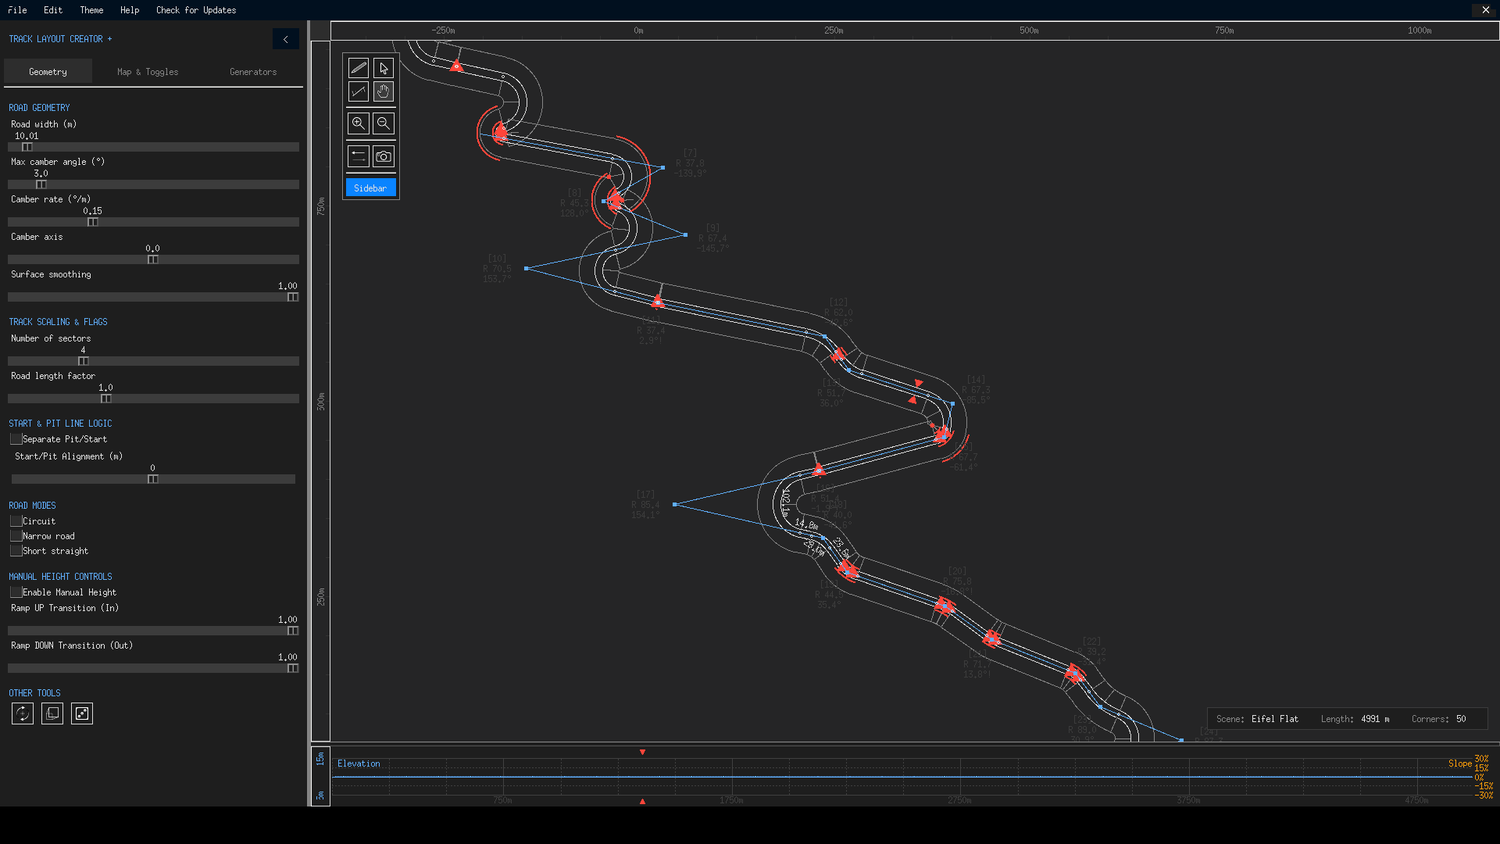
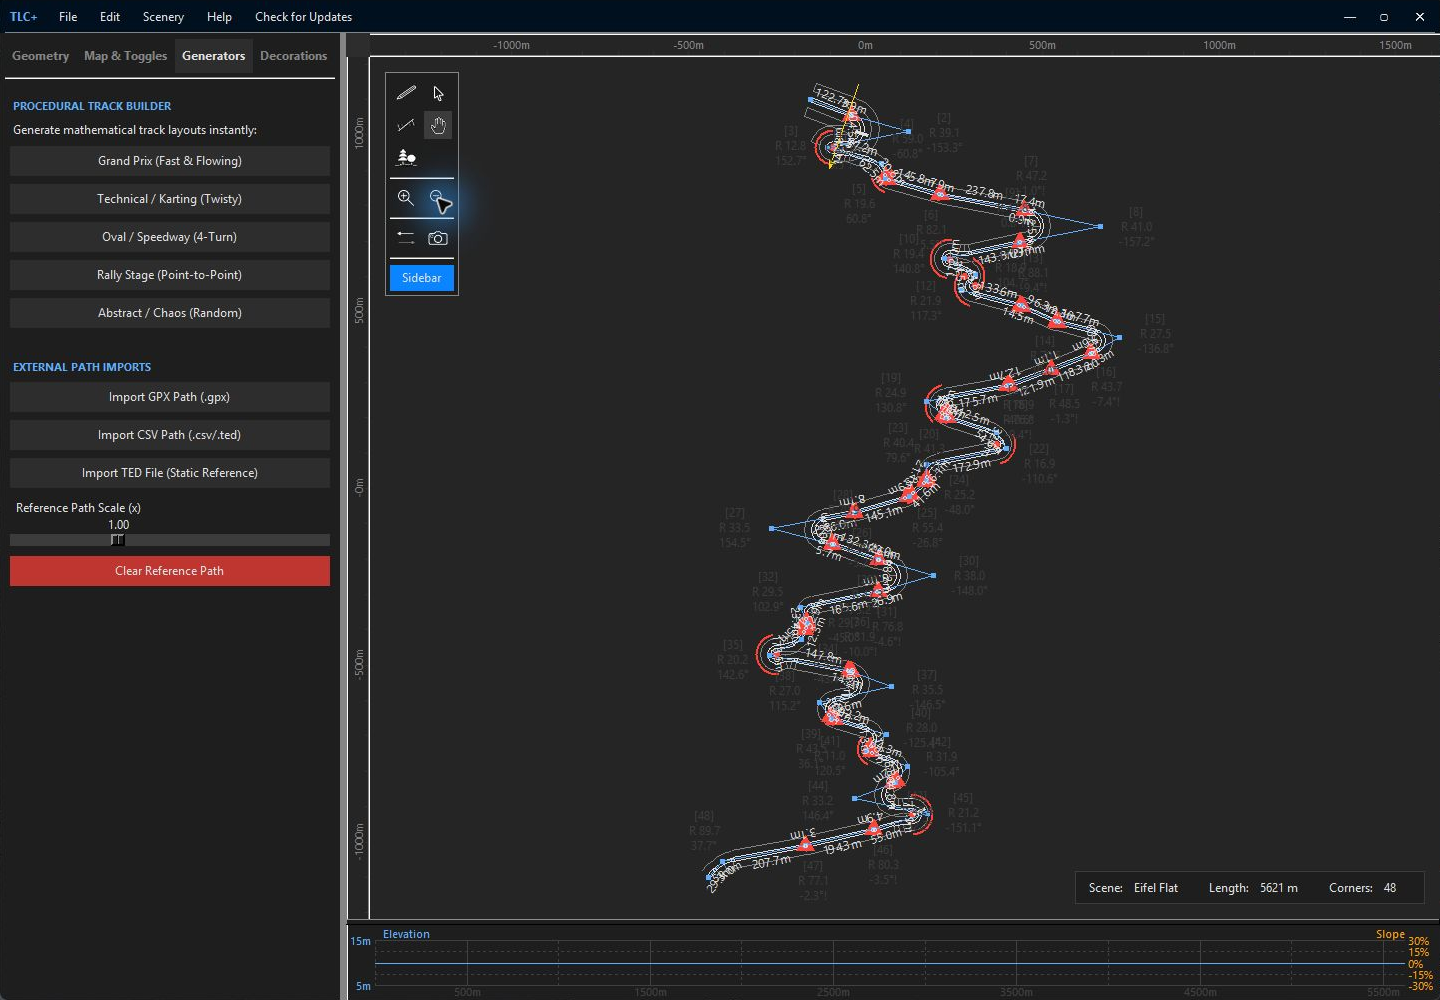
Replace legacy images with 20 desktop v1.3.0 screenshots

Changed region(s): [[0.0, 0.0, 1.0, 1.0], [0.4375, 0.5853, 0.4688, 0.6161]]

diff --git a/docs/generators/procedural.md b/docs/generators/procedural.md
@@ -1,9 +1,8 @@
 # Procedural Builder
 
-!!! note "Screenshot version"
-    Images on this page show v1.2.0. Shared controls still apply; see [the v1.3.0 release overview](../releases.md) for the new tools.
-
 The Procedural Track Builder creates complete layouts from mathematical recipes — one button per archetype, a fresh roll of the dice every click. Generation is instant and entirely local: nodes are placed by geometric rules, radii assigned from each archetype's profile, the view recentres, and an undo snapshot means ++ctrl+z++ puts your previous track back exactly as it was.
+
+The screenshots below show generated starting points, not validated finished tracks. Red/orange geometry markers still need inspection and cleanup before export.
 
 All five generators share the same contract: every node is created with zero height, *global* camber and circular curve mode (segments = 1), circuit mode is set appropriately for the style, and the result is a fully editable polygon — nothing about a generated track is locked or special.
 
@@ -13,19 +12,23 @@ All five generators share the same contract: every node is created with zero hei
 
 **12–18 nodes across a 600 × 400 m envelope, corner radii 40–140 m scaled by distance from centre, irregularity 0.6, plus ±50 m of position noise.** The recipe aims for the classic GP rhythm: long straights into wide, fast corners, with radius scaled up toward the layout's edges (where speeds are higher) and tightened near the centre. This is the archetype to click when you want a believable "somewhere in Europe" circuit that needs polish rather than surgery.
 
-![A generated Grand Prix circuit](../assets/screenshots/02-main-gp.png){ class="tlc-shot" }
+![A generated Grand Prix circuit after a sample manual-height edit](../assets/screenshots/02-main-gp.png){ class="tlc-shot" }
 
 ### Technical / Karting (Twisty)
+
+![A technical generator example before cleanup](../assets/screenshots/16-tech.png){ .tlc-shot }
 
 **18–26 nodes packed into 300 × 300 m, radii 20–60 m, irregularity 0.3.** Constant direction changes with tight radii — think karting tracks and street circuits. The low irregularity keeps the layout coherent while the sheer node density delivers the twist. Pairs naturally with **Narrow road** mode and a 6–8 m road width on the Geometry tab.
 
 ### Oval / Speedway (4-Turn)
 
+![A four-corner oval in desktop v1.3.0](../assets/screenshots/14-oval.png){ .tlc-shot }
+
 **Exactly 4 nodes on a 700 × 300 m stretched shape, radii 100–200 m, start angle rotated 45°, zero noise.** The only archetype with a fixed node count — a true speedway: two long straights, two wide turns. Everything is deterministic in shape but the radii still vary within their range, so ovals range from paperclip-parallel to D-shaped.
 
 ### Rally Stage (Point-to-Point)
 
-**38–55 nodes on a north–south run from y = −1100 m to +1100 m, the x coordinate performing a random walk of ±250 m per step clamped to ±1000 m, radii uniform 35–90 m.** The result is a 2.2 km point-to-point stage of linked sweepers — and the only archetype that is *not* a circuit. Two rules protect its integrity:
+**38–55 nodes on a north–south run from y = −1100 m to +1100 m, the x coordinate performing a random walk of ±250 m per step clamped to ±1000 m, radii uniform 35–90 m.** The result spans 2.2 km north–south; driven road length depends on the bends. It is a point-to-point stage of linked sweepers — and the only archetype that is *not* a circuit. Two rules protect its integrity:
 
 1. Generating a rally stage while **Circuit** is checked is blocked with an explanatory dialog — unless the experimental override in [Preferences](../interface/preferences.md) is enabled (the result is then slightly broken, at your own risk).
 2. On success, circuit mode is switched **off** automatically.

diff --git a/docs/interface/overview.md b/docs/interface/overview.md
@@ -1,18 +1,15 @@
 # Window Overview
 
-!!! note "Screenshot version"
-    Images on this page show v1.2.0. Shared controls still apply; see [the v1.3.0 release overview](../releases.md) for the new tools.
-
 TLC+ uses a single maximized window with a custom dark title bar. Everything you need is visible at once — no hidden palettes, no floating dialogs except when deliberately opened. This page names each region of the window so the rest of the guide can refer to them precisely.
 
-![Annotated view of the main window with a Grand Prix track](../assets/screenshots/02-main-gp.png){ class="tlc-shot" }
+![The v1.3.0 main window with Eifel terrain and elevation](../assets/screenshots/20-terrain-overview.png){ class="tlc-shot" }
 
 ## Title bar
 
 The slim bar along the top edge replaces the native window frame. From left to right you will find:
 
 - **TRACK LAYOUT CREATOR +** — the app name; its visibility can be changed in Preferences.
-- **File / Edit / Theme / Help** — dropdown menus (details below).
+- **File / Edit / Scenery / Help** — dropdown menus (details below).
 - **Check for Updates** — opens the release page after confirming internet use.
 - **— / ▢ / ✕** — minimize, maximize (double-clicking the bar also toggles it) and close. Closing via ✕ saves your preferences; the File → Quit entry does not.
 
@@ -27,10 +24,10 @@ Because the window is frameless, you move it by dragging the empty area of the t
 |---|---|
 | **File** | Load track, Save track, Import/Export polygon, Import TED, Export to TED, Export to PostScript, Draw isometric view, Preferences, Language, Quit |
 | **Edit** | Undo, Redo |
-| **Theme** | Death Valley, Eifel, Andalusia, Eifel Flat |
+| **Scenery** | Death Valley, Eifel, Andalusia, Eifel Flat |
 | **Help** | Guide (opens this wiki), Controls (in-app reference card), Credits |
 
-![The Theme menu with all four heightmap themes](../assets/screenshots/11-theme-menu.png){ class="tlc-shot" }
+![The Scenery menu with all four heightmap themes](../assets/screenshots/11-theme-menu.png){ class="tlc-shot" }
 
 ## Toolbar
 
@@ -58,13 +55,14 @@ Additionally, a corner's label gains an exclamation mark when its sweep angle is
 
 ## Sidebar
 
-The panel on the left (300 px wide on large screens, auto-narrowed on smaller ones; resizable by dragging the divider, collapsible via the arrow in its header) organises all track settings into three tabs:
+The panel on the left (300 px wide on large screens, auto-narrowed on smaller ones; resizable by dragging the divider, collapsible via the arrow in its header) organises all track settings into four tabs:
 
 - **Geometry** — road dimensions, corner camber, track scaling & flags, start/pit line logic, road modes, manual height controls and the rotate/scale/randomize tools.
 - **Map & Toggles** — elevation map details (fidelity, scroll margin, label size) and eleven display toggles.
-- **Generators** — the procedural track builder, the image vectorizer and external path imports.
+- **Generators** — the procedural track builder, Track Tracer (images and GPX/CSV) and external path imports.
+- **Decorations** — scenery-specific palette, placement side, fill interval and selected-item controls.
 
-Each tab is documented on its own page: [Geometry Tab](geometry-tab.md), [Map & Toggles Tab](map-toggles-tab.md) and [Generators Tab](generators-tab.md). Which generator sections appear at all is controlled from [Preferences](preferences.md).
+Each tab is documented on its own page: [Geometry Tab](geometry-tab.md), [Map & Toggles Tab](map-toggles-tab.md) and [Generators Tab](generators-tab.md), plus [Decorations](decorations.md). Which generator sections appear at all is controlled from [Preferences](preferences.md).
 
 ## Elevation graph
 

diff --git a/REVIEW.md b/REVIEW.md
@@ -6,7 +6,7 @@ Prepared 23 October 2026. **Candidate for owner validation; not a launch approva
 
 - Rebuilt the home/start flow, installation, first-track tutorial, save/export guidance, preferences, FAQ and troubleshooting.
 - Added decoration editing, editable GPX/CSV tracing, release overview and known limits.
-- Kept existing detailed geometry/elevation/generator references, correcting affected v1.3.0 statements and labeling older screenshots.
+- Kept existing detailed geometry/elevation/generator references, correcting affected v1.3.0 statements and replacing all 17 older screenshots; added three focused v1.3.0 views.
 - Fixed translation URL generation, keyboard dismissal/focus, local-preview behavior and the guide-source edit link.
 - Added pull-request checks and review artifacts; retained the exact URL used by the desktop app.
 - No v1.4.0 or TLC+ Web features.
@@ -33,7 +33,7 @@ The failed deployment at <https://github.com/daydrive7/tlc-plus-wiki/actions/run
 - [ ] Save/reopen a TRK5 copy and verify the documented omissions and elevation controls.
 - [ ] Try the main screenshot and isometric export; check the actual formats and output paths.
 - [ ] Review desktop/mobile readability, light/dark mode, search, navigation and keyboard access.
-- [ ] Approve the use of labeled v1.2.0 screenshots, or replace them with verified v1.3.0 captures.
+- [ ] Review the 20 fresh v1.3.0 screenshots and captions; see SCREENSHOTS.md for provenance.
 - [ ] Validate exported TEDs with your supported GT6 workflow. No in-game test is claimed here.
 
 ## Launch only after acceptance
@@ -55,4 +55,8 @@ The content candidate alone does not restore the live site. Pages enablement, a 
 - Executed the released `SaveTrack` function in an isolated harness: node Z persists; changing decoration/session-control state does not change its output.
 - Executed the released GPS tracing service with synthetic closed/open routes and parsed the supplied GPX/CSV examples; circuit/stage detection matched the guide.
 
-Fresh desktop GUI walkthroughs, mobile viewport testing, macOS/Linux installs, real-world data edge cases and in-game TED validation remain owner acceptance checks. The native automation helper did not expose the released app's blank-title borderless window, so no new desktop screenshots or GUI success are claimed.
+Full desktop workflow acceptance, mobile viewport testing, macOS/Linux installs, real-world data edge cases and in-game TED validation remain owner acceptance checks. A temporary capture copy now exposes that window through an added native frame/title; 20 real screenshots were captured. The editor, generators, manual-height edit, decoration fill, isometric view and help dialogs were exercised. Full save/export round trips and GUI GPS import remain pending; see SCREENSHOTS.md.
+
+## Screenshot refresh
+
+All 20 screenshot assets now show desktop v1.3.0, including the new Decorations palette, Track Tracer controls and Eifel terrain. The earlier v1.2.0 screenshot notices have been removed. The capture helper required temporary window-manager accommodations only; no app feature implementation was changed.

diff --git a/SCREENSHOTS.md b/SCREENSHOTS.md
@@ -1,0 +1,17 @@
+# Screenshot provenance — desktop v1.3.0
+
[1 lines of base64/hex data omitted]
+
+The screenshots contain real application pixels. Processing is limited to lossless cropping of the temporary native frame or a relevant dialog/control area and PNG compression. No controls, track geometry or output were painted into the images.
+
+## Capture environment
+
+A separate scratch copy was used. Only capture accommodations were added: an OS window title so automation could identify the empty-title window; a normal native frame in place of `overrideredirect`; a 1440×1000 starting client area; and a longer menu-dismiss timer so transient menus could be photographed. Dialog OS titles were set for identification. The extra native frame/title is cropped from the delivered assets. Editor, generator, decoration and export logic were unchanged. User working files and the desktop release repository were not modified.
+
+Track Tracer was enabled through Preferences. Generator examples were created with the app's own controls. A sample node height of 20 m was applied through Edit Point and Manual Height was enabled. Decorations → Fill Track placed 35 trees in the sample Eifel circuit.
+
+`19-gps-tracing.png` is a focused capture of the Track Tracer controls; it does not claim a completed GUI GPX import. The native file picker could not be reliably targeted, so that flow remains in owner acceptance checks. The sample GPX/CSV routes were verified separately with the released tracing service.
+
+Generator screenshots intentionally retain geometry warnings. They illustrate editor states and are not proof of in-game compatibility. The helper's cursor indicator may be visible in some captures.
+
+`docs/assets/screenshots/manifest.json` records dimensions, crop rectangles and SHA-256 hashes. Raw full-window captures remain in this task's scratch workspace for audit; they are not part of the published guide.

diff --git a/docs/concepts/themes-road-types.md b/docs/concepts/themes-road-types.md
@@ -1,18 +1,17 @@
 # Themes & Road Types
 
-!!! note "Screenshot version"
-    Images on this page show v1.2.0. Shared controls still apply; see [the v1.3.0 release overview](../releases.md) for the new tools.
-
 A **theme** in TLC+ is more than a colour scheme: it selects the real-world terrain heightmap, the contour rendering, *and* an entire table of GT6 road building blocks — start zones, sprint blocks, mid-track straights (normal and narrow), and the line types used for start and finish lines. Choosing a theme is therefore the very first decision of any project, because it determines what the exported TED physically drives on.
 
 ## The four themes
 
 | Theme | Terrain | Character |
 |---|---|---|
-| ![Death Valley](../assets/screenshots/11-theme-menu.png){: style="width:220px;border-radius:4px"} **Death Valley** | 6 000 × 6 000 m, ±204 m | Desert basin-and-range; wide open spaces with sudden ridges. |
+| **Death Valley** | 6 000 × 6 000 m, ±204 m | Desert basin-and-range; wide open spaces with sudden ridges. |
 | **Eifel** | 12 000 × 12 000 m, ±295 m | Rolling German hills — the classic all-rounder. |
 | **Andalusia** | 7 000 × 7 000 m, ±646 m | Rugged Spanish mountains; the most extreme elevation. |
 | **Eifel Flat** *(default)* | 12 000 × 12 000 m, ±166 m | Gentle Eifel relief — forgiving for first tracks. |
+
+![The v1.3.0 Scenery menu](../assets/screenshots/11-theme-menu.png){ .tlc-shot }
 
 Switch terrain from the **Scenery** menu in the title bar. Confirming a different scenery clears placed decorations; the polygon stays but the terrain beneath it changes, so always re-check the elevation profile after switching. Eifel Flat internally reuses Eifel's road data with a flattened heightmap — the two are siblings, not separate families.
 

diff --git a/docs/interface/preferences.md b/docs/interface/preferences.md
@@ -2,6 +2,8 @@
 
 Open **Preferences** to change the interface and visible modules. Road width, camber and elevation controls live on the **Geometry** tab instead.
 
+![The v1.3.0 Sidebar Module Manager and preferences](../assets/screenshots/07-preferences.png){ .tlc-shot }
+
 ## Appearance and workspace
 
 - **Light Mode (W.I.P) — classic TLC look** switches between Dark and Classic. Classic is an experimental light theme; some widgets may still look inconsistent.
@@ -22,6 +24,8 @@ When a newer release is found, the app offers to open its page in a browser. The
 **File → Language** offers English, Polish, Spanish, Portuguese (Brazil/Portugal), French, German, Japanese and Russian. Restart when prompted. Coverage of newly added strings can vary by language.
 
 This guide maintains English content. Its **Translate** button opens the current public page through Google Translate, a third-party service. Machine translation is optional and is not a reviewed guide localization. It cannot translate a local preview URL.
+
+![The v1.3.0 interface language menu](../assets/screenshots/12-language-menu.png){ .tlc-shot }
 
 ## Experimental Rally Circuit option
 

diff --git a/docs/getting-started/first-track.md b/docs/getting-started/first-track.md
@@ -8,7 +8,7 @@ Choose **Eifel Flat** from the scenery menu for an easy first project. Open **Ge
 
 ![A generated Grand Prix circuit](../assets/screenshots/02-main-gp.png){ .tlc-shot }
 
-*v1.2.0 screenshot; the basic layout workflow also applies to v1.3.0.*
+*Desktop v1.3.0: a generated Grand Prix circuit with a sample manual-height edit.*
 
 Leave **Circuit** enabled on the Geometry tab for a closed loop. For a Rally Stage, disable Circuit before generating.
 
@@ -17,6 +17,8 @@ Leave **Circuit** enabled on the Geometry tab for a closed loop. For a Rally Sta
 Choose **Selection**, click a control node and drag it. Zoom with the wheel; right-drag empty canvas to pan; press ++c++ to centre the track. Right-dragging a node can change its radius, so start panning away from nodes.
 
 Double-click a node, or select it and press ++enter++, to enter precise coordinates, radius, height and camber. Use ++ctrl+z++ to undo a geometry edit. [All tools and controls →](../interface/toolbar.md)
+
+![The v1.3.0 Edit Point precision dialog](../assets/screenshots/05-edit-point.png){ .tlc-shot }
 
 ## 3. Check road width, start and elevation
 

diff --git a/docs/interface/toolbar.md b/docs/interface/toolbar.md
@@ -1,8 +1,5 @@
 # Toolbar & Canvas Tools
 
-!!! note "Screenshot version"
-    Images on this page show v1.2.0. Shared controls still apply; see [the v1.3.0 release overview](../releases.md) for the new tools.
-
 The toolbar floating at the top-left of the canvas is your right hand while editing. Selection, Pen, Camber, Pan and Decoration are persistent editing modes; other buttons perform actions or transforms. The active tool changes the meaning of clicks and drags. This page explains every tool and gesture, then lists the complete keyboard map.
 
 ![The toolbar in the upper-left corner of the canvas](../assets/screenshots/01-main-blank.png){ class="tlc-shot" }
@@ -75,6 +72,8 @@ These three live at the bottom of the **Geometry** tab under OTHER TOOLS, but th
 ## Complete keyboard & mouse reference
 
 This is the same reference card available in-app via **Help → Controls**. Bindings marked "any tool" work no matter which radio tool is active.
+
+![The built-in v1.3.0 Controls reference](../assets/screenshots/08-controls.png){ .tlc-shot }
 
 ### Mouse
 

diff --git a/docs/generators/image-vectorizer.md b/docs/generators/image-vectorizer.md
@@ -1,13 +1,10 @@
 # Trace an image
 
-!!! note "Screenshot version"
-    Images on this page show v1.2.0. Shared controls still apply; see [the v1.3.0 release overview](../releases.md) for the new tools.
-
 The Image Vectorizer turns a picture of a track into an editable polygon. Give it a track map — a scan of a paper sketch, a screenshot of a circuit map, an aerial photo — and it converts the ink into nodes with corner radii, ready for the usual editing tools. It lives on the [Generators tab](../interface/generators-tab.md), behind the **Trace Image** button.
 
 Accepted inputs: **PNG, JPG, JPEG, WebP, BMP and GIF** (the section's description text says PNG/GIF out of historical brevity — the dialog accepts all six).
 
-![The Image Vectorizer section with its three modes](../assets/screenshots/04-sidebar-generators.png){ class="tlc-shot" }
+![The v1.3.0 Track Tracer section with image modes and separate GPS controls](../assets/screenshots/19-gps-tracing.png){ class="tlc-shot" }
 
 ## The three trace modes
 

diff --git a/README.md b/README.md
@@ -20,7 +20,7 @@ Use the local URL printed by MkDocs, including `/tlc-plus-wiki/`. Built HTML is 
 
 See [REVIEW.md](REVIEW.md) for scope, evidence, remaining manual checks and the launch procedure. This overhaul targets v1.3.0 only. Do not describe development builds or TLC+ Web as this desktop release.
 
-The source is English. Optional Google Translate links are unreviewed machine translation and make no request until followed. System fonts keep the guide independent of a font CDN. Earlier app screenshots are labeled v1.2.0; the added v1.3.0 controls are described in text.
+The source is English. Optional Google Translate links are unreviewed machine translation and make no request until followed. System fonts keep the guide independent of a font CDN. All 20 application screenshots are fresh desktop v1.3.0 captures. [Screenshot provenance](SCREENSHOTS.md) records the capture accommodations and image processing.
 
 ## CI and Pages
 

diff --git a/docs/known-limits.md b/docs/known-limits.md
@@ -14,6 +14,6 @@ These limits affect how you save and validate a track. They are documented here 
 | Language | New strings may be incomplete; guide machine translation is unreviewed | Refer back to English tool names |
 | Game use | Export does not transfer a course or restore online services | Validate with your own compatible GT6 workflow |
 
-Older screenshots in this guide are explicitly labeled **v1.2.0**. They illustrate the shared editing workflow and do not show the new v1.3.0 controls. No desktop v1.4.0 features are documented here.
+Guide screenshots were captured from desktop **v1.3.0** on **23 October 2026**. Generator examples show editing states, including warning markers that need review before export. The illustrations are not evidence of in-game validation.
 
 [Saving](files/saving-loading.md) · [Decorations](interface/decorations.md) · [Troubleshooting](troubleshooting.md)

diff --git a/docs/index.md b/docs/index.md
@@ -16,9 +16,9 @@ Design a circuit, trace a real route, shape the elevation and add trackside scen
 **New in 1.3.0** · [Decorations](interface/decorations.md), [editable GPS tracing](generators/gps-tracing.md), camera tilt and Classic light mode. [See what changed →](releases.md)
 </div>
 
-![A Grand Prix layout in the TLC+ desktop editor](assets/screenshots/02-main-gp.png){ .tlc-shot }
+![The v1.3.0 Decorations palette and a circuit on Eifel terrain](assets/screenshots/18-decorations.png){ .tlc-shot }
 
-*Earlier v1.2.0 interface shown. The v1.3.0 editor adds Decorations and Track Tracer controls.*
+*Desktop v1.3.0: the Decorations palette beside a sample circuit on Eifel terrain.*
 
 ## What would you like to do?
 
